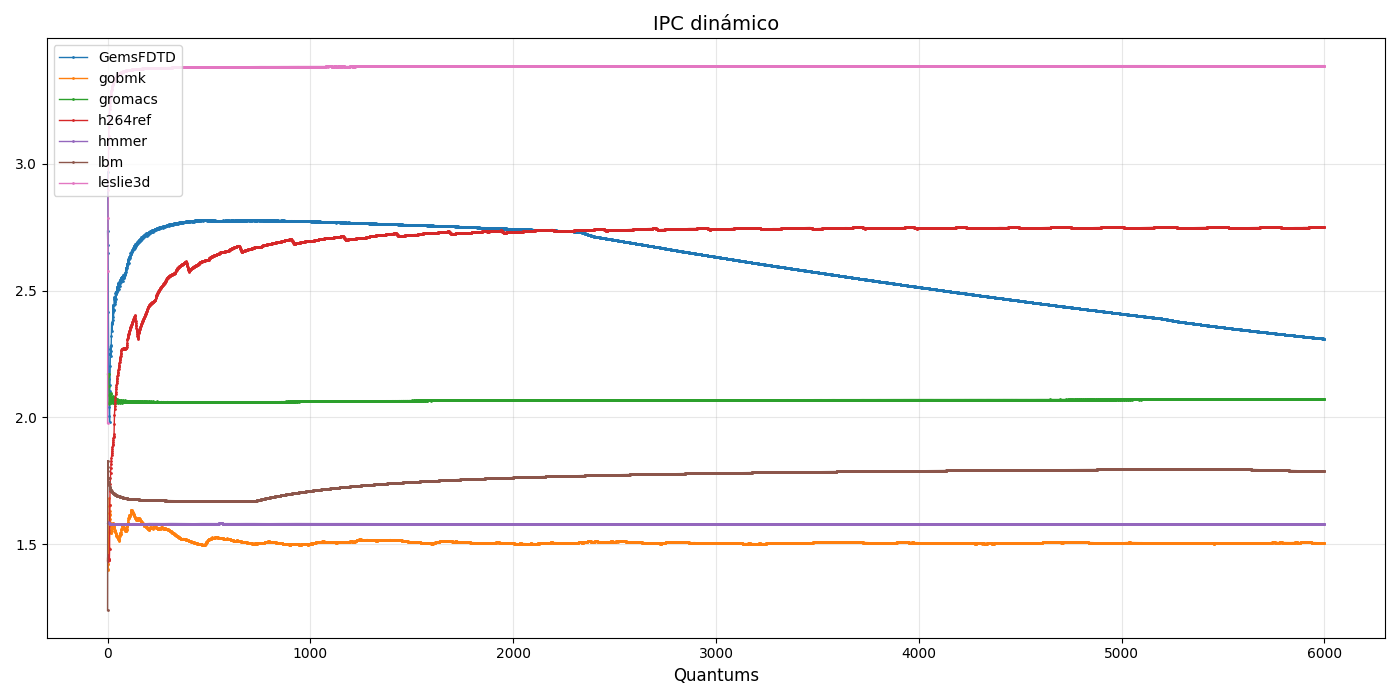
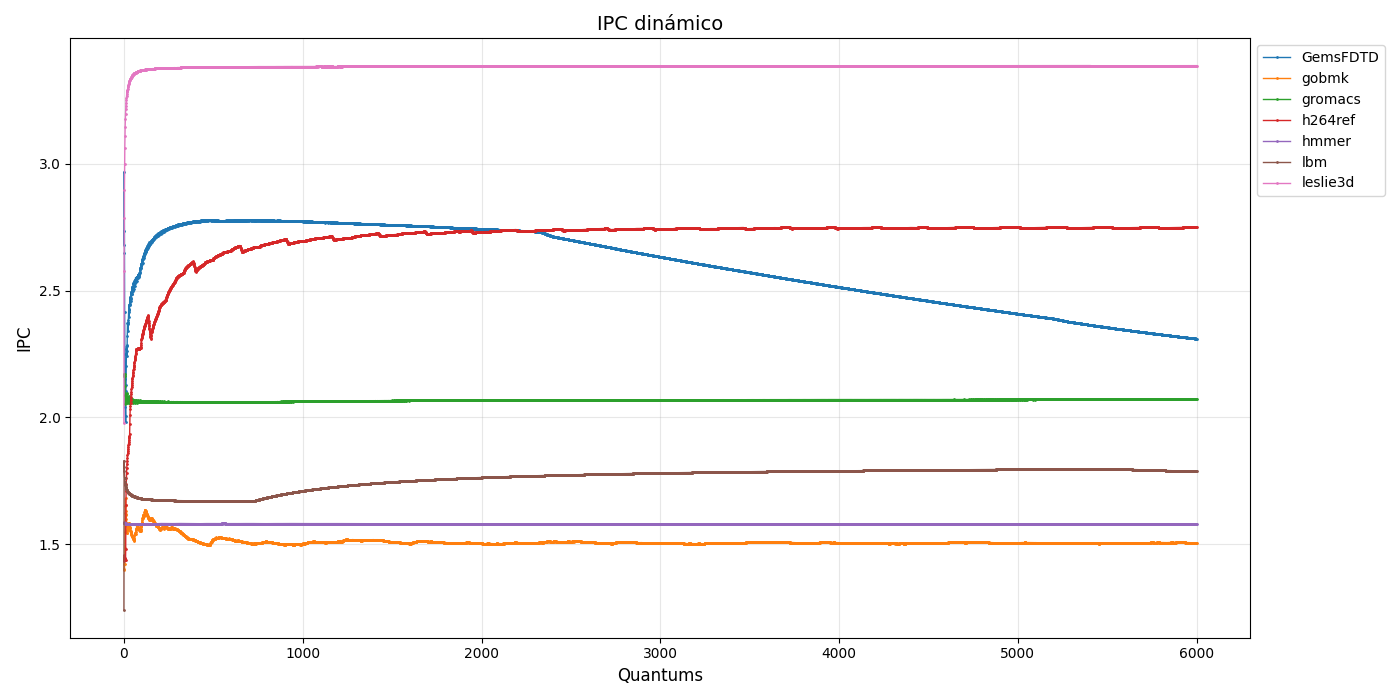
mejoras

diff --git a/graficar.py b/graficar.py
@@ -49,10 +49,10 @@ def main():
             plt.figure(figsize=(14, 7))
             
             for app_name, ipc_values in data.items():
-                tiempo = np.arange(len(ipc_values)/20)
+                tiempo = np.arange(len(ipc_values))
                 plt.plot(tiempo, ipc_values, linewidth=1, marker='o', markersize=1, label=app_name)
             
-            plt.xlabel('Tiempo (s)', fontsize=12)
+            plt.xlabel('Quantums', fontsize=12)
             plt.ylabel('IPC', fontsize=12)
             plt.title('IPC dinámico', fontsize=14)
             plt.grid(True, alpha=0.3)
